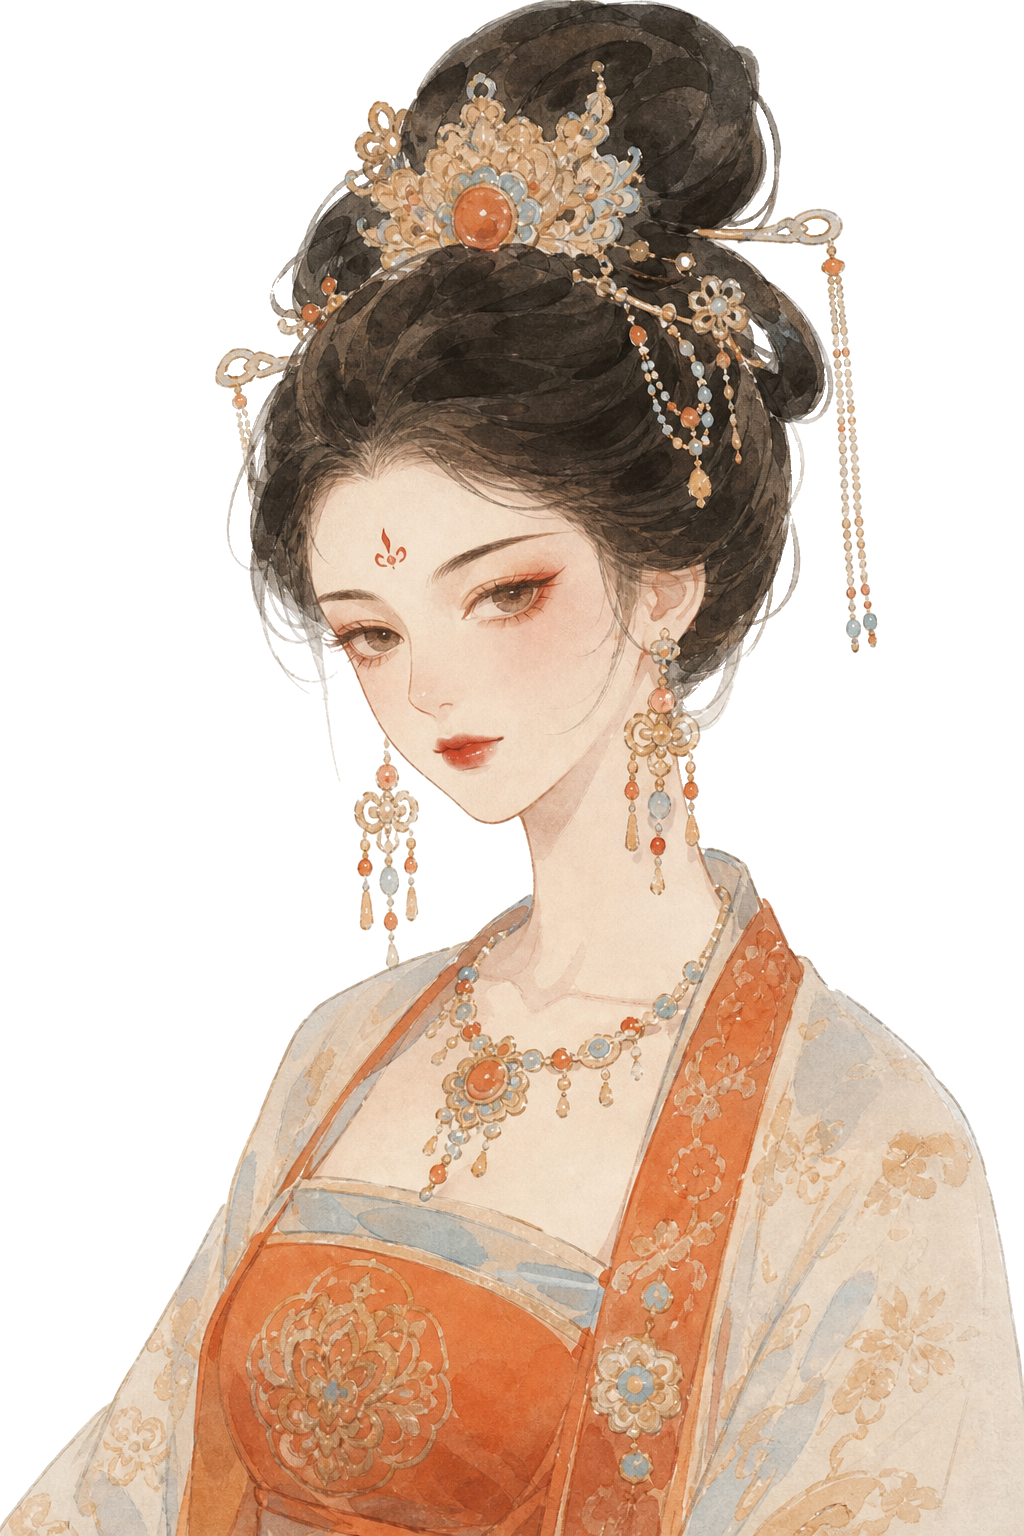
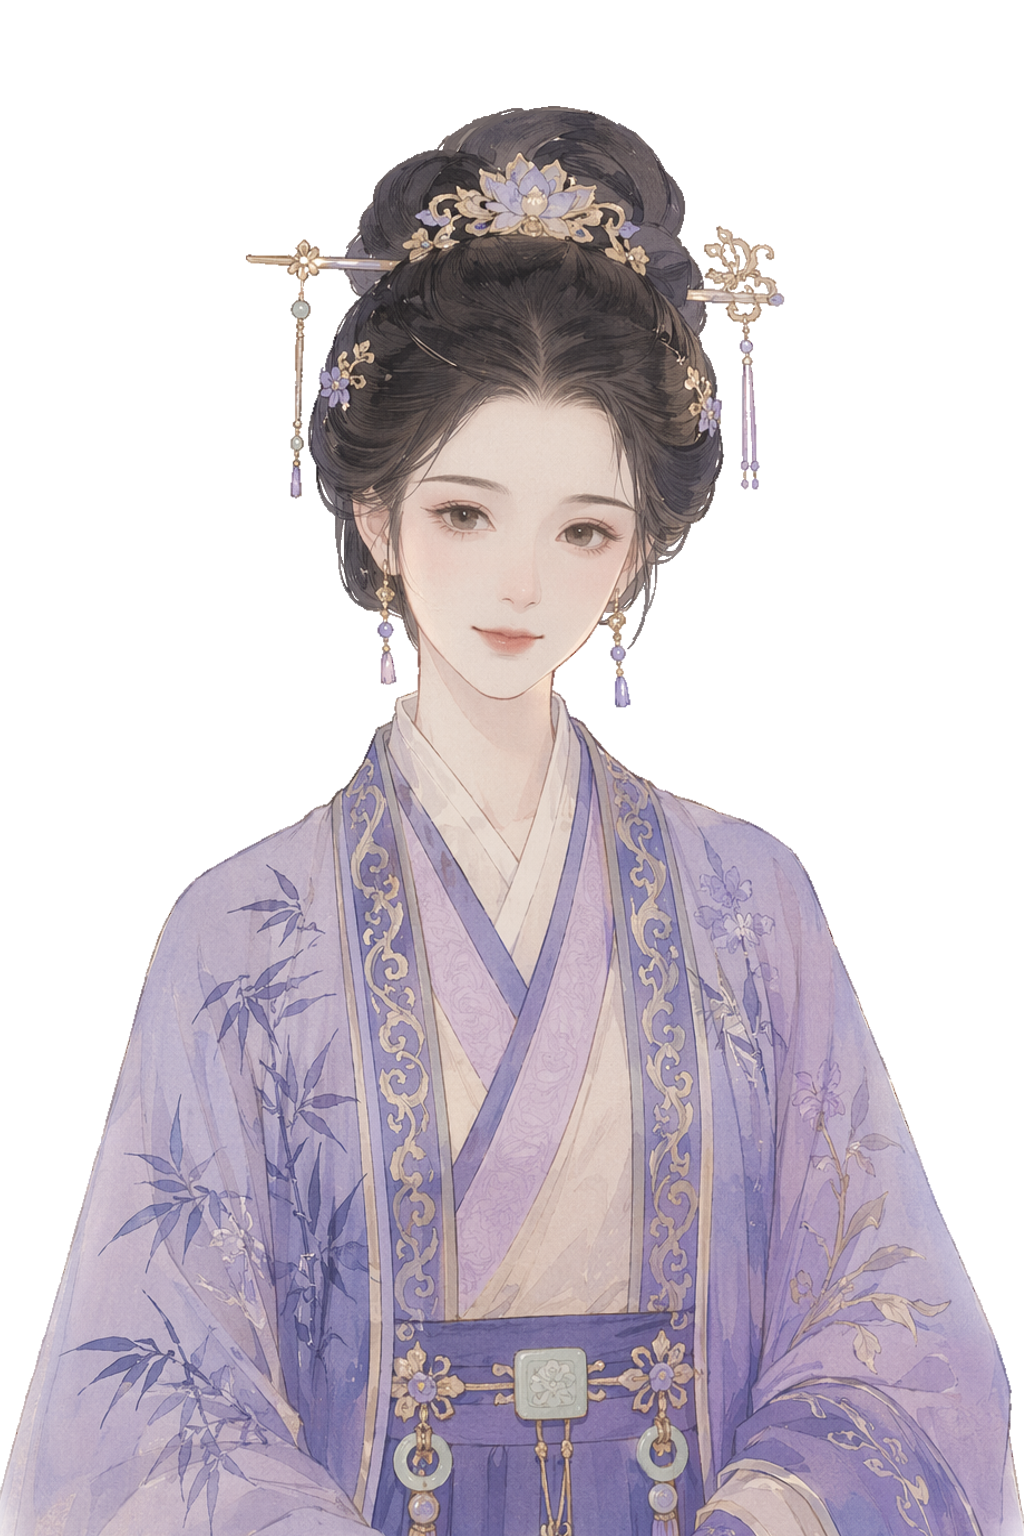
立绘更新
新增几款妃子立绘

diff --git a/02-project-codex-ai-config-wiring-fix/src/game/data/concubineRoster.ts b/02-project-codex-ai-config-wiring-fix/src/game/data/concubineRoster.ts
@@ -97,42 +97,47 @@ type GeneratedConcubineTemplate = {
 
 const WOMEN_ASSET_BASE_PATH = '/assets/characters/women/';
 const CONSORT_PORTRAIT_FALLBACK_FILENAME = 'feizi2.png';
-const quietConsortFallbackFilename = 'feizi1.png';
-const lyricalConsortFallbackFilename = 'yueshi.png';
+const girlishConsortFilename = 'feizi1.png';
+const gentleConsortFilename = 'feizi2.png';
+const proudConsortFilename = 'feizi3.png';
+const nobleConsortFilename = 'feizi4.png';
+const northernConsortFilename = 'feizi5.png';
+const matureGentleConsortFilename = 'feizi6.png';
+const paleSorrowfulConsortFilename = 'feizi7.png';
 
 const WOMEN_ASSET_FILENAME_BY_ID: Partial<Record<WomenPortraitId | '阿翎' | '太后' | '杜娘' | '娇娇' | '方瑶', string>> = {
-  花棠: 'feizi2.png',
-  姜芷: 'feizi1.png',
-  方瑶: '鏂圭憲.png',
-  连翘: 'yueshi.png',
-  阿翎: 'aling.jpg',
+  花棠: nobleConsortFilename,
+  姜芷: gentleConsortFilename,
+  方瑶: nobleConsortFilename,
+  连翘: girlishConsortFilename,
+  阿翎: girlishConsortFilename,
   太后: 'taihou.png',
-  杜娘: 'du-niang.jpg',
+  杜娘: 'duniang.png',
   娇娇: 'jiaojiao.png',
 
-  陈妙仪: quietConsortFallbackFilename,
+  陈妙仪: gentleConsortFilename,
   陈婉宁: 'chenwanning.png',
-  崔令蓉: CONSORT_PORTRAIT_FALLBACK_FILENAME,
-  崔莺莺: CONSORT_PORTRAIT_FALLBACK_FILENAME,
-  杜若蘅: quietConsortFallbackFilename,
-  冯妙莲: quietConsortFallbackFilename,
-  顾雨杏: lyricalConsortFallbackFilename,
-  江晚晚: quietConsortFallbackFilename,
-  李若瑶: quietConsortFallbackFilename,
-  柳仪芳: lyricalConsortFallbackFilename,
-  年欣兰: CONSORT_PORTRAIT_FALLBACK_FILENAME,
-  裴静姝: quietConsortFallbackFilename,
-  容可儿: lyricalConsortFallbackFilename,
-  沈妙清: quietConsortFallbackFilename,
-  水兰婷: CONSORT_PORTRAIT_FALLBACK_FILENAME,
-  孙玉娥: quietConsortFallbackFilename,
-  姚铃儿: CONSORT_PORTRAIT_FALLBACK_FILENAME,
-  叶琳珊: CONSORT_PORTRAIT_FALLBACK_FILENAME,
-  虞秋池: quietConsortFallbackFilename,
-  程雪砚: quietConsortFallbackFilename,
-  阿史那明珠: CONSORT_PORTRAIT_FALLBACK_FILENAME,
-  闻人照月: lyricalConsortFallbackFilename,
-  周怜星: quietConsortFallbackFilename,
+  崔令蓉: nobleConsortFilename,
+  崔莺莺: proudConsortFilename,
+  杜若蘅: matureGentleConsortFilename,
+  冯妙莲: paleSorrowfulConsortFilename,
+  顾雨杏: nobleConsortFilename,
+  江晚晚: matureGentleConsortFilename,
+  李若瑶: nobleConsortFilename,
+  柳仪芳: gentleConsortFilename,
+  年欣兰: proudConsortFilename,
+  裴静姝: paleSorrowfulConsortFilename,
+  容可儿: girlishConsortFilename,
+  沈妙清: gentleConsortFilename,
+  水兰婷: northernConsortFilename,
+  孙玉娥: matureGentleConsortFilename,
+  姚铃儿: proudConsortFilename,
+  叶琳珊: proudConsortFilename,
+  虞秋池: nobleConsortFilename,
+  程雪砚: gentleConsortFilename,
+  阿史那明珠: northernConsortFilename,
+  闻人照月: gentleConsortFilename,
+  周怜星: gentleConsortFilename,
 };
 
 const officialRankPaletteMap = {

diff --git a/02-project-codex-ai-config-wiring-fix/src/views/MapMainView.tsx b/02-project-codex-ai-config-wiring-fix/src/views/MapMainView.tsx
@@ -12,7 +12,7 @@ import { HAREM_OUTSIDE_BACKGROUND, LOCATION_SCENE_BACKGROUNDS } from '../config/
 import { buildMapHotspots, MAP_SIDEBAR_BUTTONS, resolveMapBackgroundImage, type MapHotspotConfig } from '../config/palaceUi';
 import { buildInitialBondProfile } from '../game/data/bondPresets';
 import { buildDuNiangShopCatalog, getInventoryRecyclePrice, type DuNiangShopEntry } from '../game/data/inventoryPresets';
-import { getConcubineDisplayRankText } from '../game/data/concubineRoster';
+import { getConcubineDisplayRankText, getConcubinePortraitPath } from '../game/data/concubineRoster';
 import {
   type GongmenToolDialogueHistoryEntry,
   type GongmenToolNpcProfile,
@@ -84,7 +84,7 @@ const gongmenNpcProfiles: Record<
   'du-niang': {
     identity: duNiangLine1Fields.speakerIdentity,
     name: duNiangLine1Fields.speakerName,
-    portrait: '/assets/characters/women/du-niang.jpg',
+    portrait: '/assets/characters/women/duniang.png',
 	    dialogueLines: [
 	      duNiangLine1Fields.text,
 	      duNiangLine2Fields.text,
@@ -97,7 +97,7 @@ const gongmenNpcProfiles: Record<
   aling: {
     identity: alingLine1Fields.speakerIdentity,
     name: alingLine1Fields.speakerName,
-    portrait: '/assets/characters/women/aling.jpg',
+    portrait: '/assets/characters/women/feizi1.png',
     dialogueLines: [
       alingLine1Fields.text,
       alingLine2Fields.text,
@@ -106,6 +106,34 @@ const gongmenNpcProfiles: Record<
   },
 };
 const ASSISTANT_PORTRAIT_SRC = '/assets/characters/women/jiaojiao.png';
+const CHEN_WANNING_PORTRAIT_SRC = getConcubinePortraitPath('陈婉宁');
+
+const resolveYingluoyetingEventPortrait = (event: YingluoyetingMapEvent, isResult: boolean) => {
+  if (isResult) {
+    return undefined;
+  }
+
+  if (event.speakerName === '陈婉宁') {
+    return (
+      <img
+        src={CHEN_WANNING_PORTRAIT_SRC}
+        alt="陈婉宁"
+        className="global-dialogue-stage__portrait-media global-dialogue-stage__portrait-media--consort"
+      />
+    );
+  }
+
+  return <div className="global-dialogue-stage__portrait-placeholder">{event.speakerName}</div>;
+};
+
+const resolveYingluoyetingEventPortraitLabel = (event: YingluoyetingMapEvent, isResult: boolean): string => {
+  if (isResult) {
+    return `${event.speakerName}剪影`;
+  }
+
+  return event.speakerName === '陈婉宁' ? '陈婉宁立绘' : `${event.speakerName}剪影`;
+};
+
 const createDialogueId = (prefix: string): string => {
   if (typeof crypto !== 'undefined' && typeof crypto.randomUUID === 'function') {
     return `${prefix}-${crypto.randomUUID()}`;
@@ -879,12 +907,8 @@ export function MapMainView() {
         {activeYingluoyetingEvent ? (
           <GlobalDialogueStage
             sceneLabel={`${activeYingluoyetingEvent.locationId}主线剧情舞台`}
-            portraitLabel={`${activeYingluoyetingEvent.speakerName}剪影`}
-            portrait={
-              activeYingluoyetingDialogueIsResult ? undefined : (
-                <div className="global-dialogue-stage__portrait-placeholder">{activeYingluoyetingEvent.speakerName}</div>
-              )
-            }
+            portraitLabel={resolveYingluoyetingEventPortraitLabel(activeYingluoyetingEvent, activeYingluoyetingDialogueIsResult)}
+            portrait={resolveYingluoyetingEventPortrait(activeYingluoyetingEvent, activeYingluoyetingDialogueIsResult)}
             narrationName={activeYingluoyetingEvent.locationId}
             quotedSpeakerIdentity={activeYingluoyetingEvent.speakerIdentity}
             quotedSpeakerName={activeYingluoyetingEvent.speakerName}
@@ -964,29 +988,32 @@ export function MapMainView() {
         {gongmenSceneActive && activeNpcProfile ? (
           <>
             <section className="map-main__gongmen-scene" aria-label={`${activeNpcProfile.name} 宫门场景`}>
-              <GlobalDialogueStage
-                sceneLabel={`${activeNpcProfile.name} 宫门对话场景`}
-                portraitLabel={`${activeNpcProfile.name} 立绘`}
-                portrait={
-                  activeNpcProfile.alreadyCutout ? (
+              <div className="map-main__gongmen-portrait-stage" aria-label={`${activeNpcProfile.name}常驻立绘`}>
+                <div className="map-main__gongmen-portrait-frame">
+                  {activeNpcProfile.alreadyCutout ? (
                     <img
                       src={activeNpcProfile.portrait}
                       alt={activeNpcProfile.name}
-                      className="global-dialogue-stage__portrait-media global-dialogue-stage__portrait-media--gongmen"
+                      className="map-main__gongmen-portrait-media global-dialogue-stage__portrait-media global-dialogue-stage__portrait-media--gongmen"
                     />
                   ) : (
                     <AutoCutoutPortrait
                       src={activeNpcProfile.portrait}
                       alt={activeNpcProfile.name}
-                      className="global-dialogue-stage__portrait-media global-dialogue-stage__portrait-media--gongmen"
+                      className="map-main__gongmen-portrait-media global-dialogue-stage__portrait-media global-dialogue-stage__portrait-media--gongmen"
                       threshold={activeNpcProfile.portraitThreshold}
                       sampleInset={activeNpcProfile.portraitSampleInset ?? 10}
                     />
-                  )
-                }
+                  )}
+                </div>
+              </div>
+              <GlobalDialogueStage
+                sceneLabel={`${activeNpcProfile.name} 宫门对话场景`}
+                portraitLabel={`${activeNpcProfile.name}常驻立绘`}
                 ariaLabel={`${activeNpcProfile.name} 宫门对话`}
                 className="global-dialogue-stage--gongmen global-dialogue-stage--with-side-panel"
                 dialogueClassName="palace-dialogue-box--gongmen-npc"
+                suppressPortrait
                 characterIdentity={activeNpcProfile.identity}
                 characterName={activeNpcProfile.name}
                 content={gongmenDialogue}

diff --git a/02-project-codex-ai-config-wiring-fix/src/components/chamber/DowagerAudiencePanel.tsx b/02-project-codex-ai-config-wiring-fix/src/components/chamber/DowagerAudiencePanel.tsx
@@ -220,19 +220,17 @@ export function DowagerAudiencePanel({ onLeave }: DowagerAudiencePanelProps) {
         </div>
       </header>
 
-      {!dialogueActive ? (
-        <div className="harem-palace-view__audience-portrait-stage" aria-label="太后常驻立绘">
-          <div className="harem-palace-view__audience-portrait-frame">
-            <AutoCutoutPortrait
-              src={DOWAGER_PORTRAIT_SRC}
-              alt="太后"
-              threshold={34}
-              sampleInset={8}
-              className="harem-palace-view__audience-portrait dowager-audience-view__portrait"
-            />
-          </div>
+      <div className="harem-palace-view__audience-portrait-stage" aria-label="太后常驻立绘">
+        <div className="harem-palace-view__audience-portrait-frame">
+          <AutoCutoutPortrait
+            src={DOWAGER_PORTRAIT_SRC}
+            alt="太后"
+            threshold={34}
+            sampleInset={8}
+            className="harem-palace-view__audience-portrait dowager-audience-view__portrait"
+          />
         </div>
-      ) : null}
+      </div>
 
       {!dialogueActive ? (
         <section className="dowager-audience-view__briefing" aria-label="建章宫场景说明">
@@ -253,19 +251,11 @@ export function DowagerAudiencePanel({ onLeave }: DowagerAudiencePanelProps) {
       {dialogueActive ? (
         <GlobalDialogueStage
           sceneLabel="建章宫太后对话场景"
-          portraitLabel="太后立绘"
-          portrait={
-            <AutoCutoutPortrait
-              src={DOWAGER_PORTRAIT_SRC}
-              alt="太后"
-              threshold={34}
-              sampleInset={8}
-              className="global-dialogue-stage__portrait-media global-dialogue-stage__portrait-media--dowager"
-            />
-          }
+          portraitLabel="太后常驻立绘"
           ariaLabel="建章宫太后对话框"
           className="global-dialogue-stage--dowager global-dialogue-stage--with-side-panel"
           dialogueClassName="palace-dialogue-box--consort-audience palace-dialogue-box--dowager-audience"
+          suppressPortrait
           characterIdentity={dialogueTurn?.speakerIdentity ?? '建章宫宫人'}
           characterName={dialogueTurn?.speakerName ?? '通传'}
           content={dialogueTurn?.text ?? '宫人正往殿内通传，你暂且候在阶前。'}

diff --git a/02-project-codex-ai-config-wiring-fix/src/index.css b/02-project-codex-ai-config-wiring-fix/src/index.css
@@ -3903,6 +3903,36 @@ button {
   pointer-events: none;
 }
 
+.map-main__gongmen-portrait-stage {
+  position: absolute;
+  left: 50%;
+  top: 24px;
+  z-index: 2;
+  width: 360px;
+  height: 500px;
+  transform: translateX(-50%);
+  pointer-events: none;
+}
+
+.map-main__gongmen-portrait-frame {
+  position: absolute;
+  inset: 0;
+  display: flex;
+  align-items: flex-end;
+  justify-content: center;
+  overflow: visible;
+}
+
+.map-main__gongmen-portrait-media {
+  display: block;
+  width: 112%;
+  height: 112%;
+  object-fit: contain;
+  object-position: center bottom;
+  filter: drop-shadow(0 18px 26px rgba(52, 24, 28, 0.22));
+  background: transparent !important;
+}
+
 .map-main__gongmen-actions,
 .map-main__trade-modal {
   border-radius: 28px;

diff --git a/02-project-codex-ai-config-wiring-fix/src/components/chamber/EmperorAudiencePanel.tsx b/02-project-codex-ai-config-wiring-fix/src/components/chamber/EmperorAudiencePanel.tsx
@@ -177,9 +177,9 @@ export function EmperorAudiencePanel({ source, location, concubines, onLeave }: 
         <GlobalDialogueStage
           {...commonDialogueProps}
           sceneLabel="皇帝日间互动开场"
-          portraitLabel="容安立绘"
-          portrait={<img src={EMPEROR_PORTRAIT_SRC} alt="容安" className="global-dialogue-stage__portrait-media global-dialogue-stage__portrait-media--emperor" />}
+          portraitLabel="容安常驻立绘"
           ariaLabel="皇帝日间互动开场"
+          suppressPortrait
           characterIdentity={introEntry.speakerIdentity}
           characterName={introEntry.speakerName}
           content={introEntry.text}
@@ -200,6 +200,7 @@ export function EmperorAudiencePanel({ source, location, concubines, onLeave }: 
           sceneLabel="皇帝互动反馈"
           portraitLabel="旁白无立绘"
           ariaLabel="皇帝互动反馈"
+          suppressPortrait
           characterIdentity={feedbackEntry.speakerIdentity}
           characterName={feedbackEntry.speakerName}
           content={feedbackText || feedbackEntry.text}
@@ -223,6 +224,7 @@ export function EmperorAudiencePanel({ source, location, concubines, onLeave }: 
           sceneLabel={source === 'public-encounter' ? '皇帝公共偶遇收束' : '养心殿告退'}
           portraitLabel="旁白无立绘"
           ariaLabel="皇帝互动告退"
+          suppressPortrait
           characterIdentity={farewellEntry.speakerIdentity}
           characterName={farewellEntry.speakerName}
           content={farewellText || farewellEntry.text}

diff --git a/02-project-codex-ai-config-wiring-fix/src/__tests__/app-flow.test.tsx b/02-project-codex-ai-config-wiring-fix/src/__tests__/app-flow.test.tsx
@@ -2391,6 +2391,7 @@ describe('App 主流程切换', () => {
     fireEvent.click(await screen.findByRole('button', { name: '杜娘' }));
 
     expect(await screen.findByLabelText('杜娘 宫门对话')).toBeInTheDocument();
+    expect(screen.getByLabelText('杜娘常驻立绘')).toBeInTheDocument();
     expect(screen.queryByRole('button', { name: '杜娘' })).not.toBeInTheDocument();
 
     fireEvent.click(screen.getByRole('button', { name: '购买' }));
@@ -5445,6 +5446,7 @@ describe('App 主流程切换', () => {
     render(<EmperorAudiencePanel source="public-encounter" location="御花园" concubines={concubines} onLeave={onLeave} />);
 
     expect(await screen.findByText(/你在御花园见到容安/)).toBeInTheDocument();
+    expect(screen.getByLabelText('容安立绘')).toBeInTheDocument();
     await clickDialogueAdvance();
     fireEvent.click(await screen.findByRole('button', { name: '闲聊' }));
 
@@ -5454,6 +5456,7 @@ describe('App 主流程切换', () => {
 
     expect(await screen.findByText(/不能强留圣驾/)).toBeInTheDocument();
     expect(screen.getAllByLabelText('皇帝互动告退').length).toBeGreaterThan(0);
+    expect(screen.getByLabelText('容安立绘')).toBeInTheDocument();
     expect(onLeave).not.toHaveBeenCalled();
   });
 
@@ -7583,6 +7586,7 @@ describe('App 主流程切换', () => {
     );
     expect(screen.getByRole('button', { name: '送礼问安' })).toBeInTheDocument();
     expect(screen.getByRole('button', { name: '起身告辞' })).toBeInTheDocument();
+    expect(screen.getByLabelText('太后常驻立绘')).toBeInTheDocument();
     expect(screen.getByText(/你需先依礼问安/)).toBeInTheDocument();
     expect(screen.queryByLabelText('建章宫太后对话框')).not.toBeInTheDocument();
 
@@ -7590,6 +7594,7 @@ describe('App 主流程切换', () => {
 
     const dowagerDialogue = await screen.findByLabelText('建章宫太后对话框');
     expect(dowagerDialogue).toBeInTheDocument();
+    expect(screen.getByLabelText('太后常驻立绘')).toBeInTheDocument();
     expect(screen.getByRole('button', { name: '送礼问安' })).toBeDisabled();
     expect(screen.getByRole('button', { name: '起身告辞' })).toBeDisabled();
     await screen.findByText(/你上前奉礼问安后/);

diff --git a/02-project-codex-ai-config-wiring-fix/src/__tests__/yingluoyeting-map-flow.test.tsx b/02-project-codex-ai-config-wiring-fix/src/__tests__/yingluoyeting-map-flow.test.tsx
@@ -266,6 +266,7 @@ describe('影落掖庭地图主线体验', () => {
 
     expect(await screen.findByText(/你第一次踏进后宫宫道时/)).toBeInTheDocument();
     advanceDialoguePages();
+    expect(screen.getByAltText('陈婉宁')).toHaveAttribute('src', '/assets/characters/women/chenwanning.png');
     fireEvent.click(screen.getByRole('button', { name: '谢她照拂，只字不提旧案' }));
     expect(await screen.findByText(/陈婉宁笑意未改/)).toBeInTheDocument();
   });